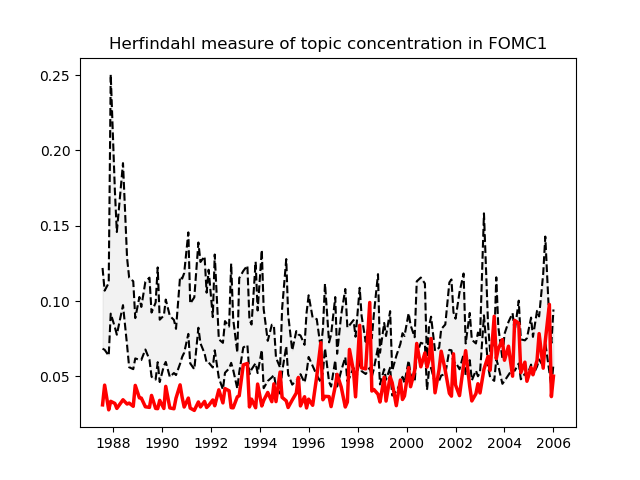
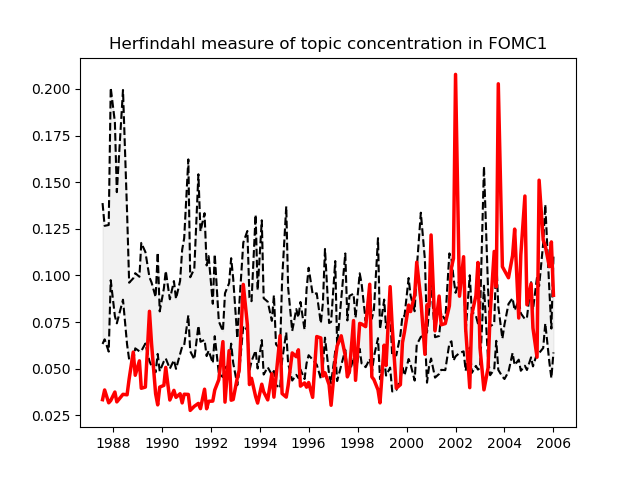
alpha to use: 2 to 2.5

diff --git a/estimation.py b/estimation.py
@@ -10,7 +10,7 @@ import timeit
 
 topic_num = 40
 maxit = 1000
-draw_num = 120
+draw_num = 200
 eps = 1e-4
 
 def LDA_implementation(text, alpha=1.25, beta=0.025, burning=4000, sample_freq=50, sample_size=80, keep_num=5):
@@ -67,7 +67,8 @@ def band(P, k, eps, maxit, M, stem_num, cov_type='HAC', maxlags=4):
                           columns=['Transparency', 'Recession', 'EPU', 'Twoday', 'PhDs', 'num_stems', 'Intercept'])
     bse = pd.DataFrame(index=range(M),
                        columns=['Transparency', 'Recession', 'EPU', 'Twoday', 'PhDs', 'num_stems', 'Intercept'])
-
+    tstat = pd.DataFrame(index=range(M),
+                       columns=['Transparency', 'Recession', 'EPU', 'Twoday', 'PhDs', 'num_stems', 'Intercept'])
     for m in range(M):
         start = timeit.default_timer()
         B, Theta = NNF(P, k, eps, maxit)
@@ -78,9 +79,10 @@ def band(P, k, eps, maxit, M, stem_num, cov_type='HAC', maxlags=4):
 
         params.loc[m] = model.get_robustcov_results(cov_type=cov_type, maxlags=maxlags).params
         bse.loc[m] = model.get_robustcov_results(cov_type=cov_type, maxlags=maxlags).bse
+        tstat.loc[m] = params.loc[m] / bse.loc[m]
         end = timeit.default_timer()
         print('Finished Trial number {}. Time: {}'.format(str(m), end-start))
-    return record, params, bse
+    return record, params, bse, tstat
 
 
 def plot_region(Herfindahl, HHI, index, section, dpi=100):
@@ -129,8 +131,8 @@ def main():
     #print('Finished')
 
     print('Running Variation Bayes LDA')
-    HHI_FOMC1, _, _ = vb_estimate('FOMC1',onlyTF=True, K=topic_num, alpha=1.25, eta=0.025)
-    HHI_FOMC2, _, _ = vb_estimate('FOMC2', onlyTF=True, K=topic_num, alpha=1.25, eta=0.025)
+    HHI_FOMC1, _, _,_ = vb_estimate('FOMC1',onlyTF=True, K=topic_num, alpha=1, eta=0.025)
+    HHI_FOMC2, _, _,_ = vb_estimate('FOMC2', onlyTF=True, K=topic_num, alpha=0.75, eta=0.025)
 
     td_matrix1 = td_matrix1_raw / td_matrix1_raw.sum(axis=0)
     td_matrix2 = td_matrix2_raw / td_matrix2_raw.sum(axis=0)
@@ -143,8 +145,8 @@ def main():
 
     # estimate the band of LDA result
     print('Running Robust LDA Algo')
-    Herfindahl1, params1, bse1 = band(td_matrix1, topic_num, eps, maxit, draw_num, stem_num1)
-    Herfindahl2, params2, bse2 = band(td_matrix2, topic_num, eps, maxit, draw_num, stem_num2)
+    Herfindahl1, params1, bse1, tstat1 = band(td_matrix1, topic_num, eps, maxit, draw_num, stem_num1)
+    Herfindahl2, params2, bse2, tstat2 = band(td_matrix2, topic_num, eps, maxit, draw_num, stem_num2)
     print('Finished')
 
     index = pd.to_datetime(pd.read_excel(os.path.join(UTILFILE_PATH,'separation_rules.xlsx')).iloc[:, 0], format='%Y%m')
@@ -158,6 +160,8 @@ def main():
     bse1.to_excel('FOMC1_bse.xlsx')
     params2.to_excel('FOMC2_coef.xlsx')
     bse2.to_excel('FOMC2_bse.xlsx')
+    tstat1.to_excel('FOMC1_tstat.xlsx')
+    tstat2.to_excel('FOMC2_tstat.xlsx')
 
     model_FOMC1 = regression_single(HHI_FOMC1, stem_num1)
     model_FOMC2 = regression_single(HHI_FOMC2, stem_num2)
@@ -165,14 +169,18 @@ def main():
     summary1 = pd.DataFrame(index = model_FOMC1.params.index)
     summary1['Coef'] = model_FOMC1.params
     summary1['Std Error'] = model_FOMC1.bse
-    summary1['Min'] = params1.min(axis = 0)
-    summary1['Max'] = params1.max(axis = 0)
+    summary1['Coef Min'] = params1.min(axis = 0)
+    summary1['Coef Max'] = params1.max(axis = 0)
+    summary1['Tstat Min'] = tstat1.min(axis = 0)
+    summary1['Tstat Max'] = tstat1.max(axis = 0)
 
     summary2 = pd.DataFrame(index=model_FOMC2.params.index)
     summary2['Coef'] = model_FOMC2.params
     summary2['Std Error'] = model_FOMC2.bse
     summary2['Min'] = params2.min(axis=0)
     summary2['Max'] = params2.max(axis=0)
+    summary2['Tstat Min'] = tstat2.min(axis = 0)
+    summary2['Tstat Max'] = tstat2.max(axis = 0)
 
     print('**************************************************************************************')
     print('Result for FOMC1')
@@ -181,5 +189,5 @@ def main():
     print('Result for FOMC2')
     print(summary2.round(4).T.to_latex())
 
-if __name__ == '__main__':
-    main()
+# if __name__ == '__main__':
+#     main()

diff --git a/estimation_on_posterior.py b/estimation_on_posterior.py
@@ -1,0 +1,64 @@
+from VB_estimate import vb_estimate
+from estimation import band
+import numpy as np
+import pandas as pd
+from timeit import default_timer
+from Constant import *
+import pickle
+
+maxit = 20
+topic_num = 40
+maxit_NMF = 1000
+draw_num = 120
+eps = 1e-6
+
+print('Reading cached data')
+with open(os.path.join(MATRIX_PATH, 'FOMC1_text_onlyTF.pkl'), 'rb') as f:
+    FOMC1_text = pickle.load(f)
+with open(os.path.join(MATRIX_PATH, 'FOMC2_text_onlyTF.pkl'), 'rb') as f:
+    FOMC2_text = pickle.load(f)
+td_matrix1_raw = pd.read_excel(os.path.join(MATRIX_PATH, 'FOMC1_meeting_matrix_onlyTF.xlsx'), index_col=0)
+td_matrix2_raw = pd.read_excel(os.path.join(MATRIX_PATH, 'FOMC2_meeting_matrix_onlyTF.xlsx'), index_col=0)
+stem_num1 = td_matrix1_raw.sum(axis=0)
+stem_num2 = td_matrix2_raw.sum(axis=0)
+
+VB_HHI_FOMC1_res = []
+VB_HHI_FOMC2_res = []
+NMF_HHI_FOMC1_max = []
+NMF_HHI_FOMC1_min = []
+NMF_HHI_FOMC2_max = []
+NMF_HHI_FOMC2_min = []
+
+
+for i in range(maxit):
+    print('Drawing posterior estimate number {}'.format(i))
+    start = default_timer()
+    HHI_FOMC1, _, gamma1, lam1 = vb_estimate('FOMC1',onlyTF=True, K=topic_num, alpha=2, eta=0.025, tau=100000, kappa=1)
+    HHI_FOMC2, _, gamma2, lam2 = vb_estimate('FOMC2', onlyTF=True, K=topic_num, alpha=2, eta=0.025, tau=100000, kappa=1)
+
+    # transpose lambda so that it is aligned to be V x K
+    #lam1 = lam1.T
+    lam1, lam2 = lam1.T, lam2.T
+    # compute posterior mean of each draw
+    theta1 = gamma1 / gamma1.sum(axis=0)
+    B1 = lam1 / lam1.sum(axis=0)
+    theta2 = gamma2 / gamma2.sum(axis=0)
+    B2 = lam2 / lam2.sum(axis=0)
+
+    # perform NMF on posterior
+    P_hat1 = np.dot(B1, theta1) #/ np.dot(B1, theta1).sum(axis=0)
+    P_hat2 = np.dot(B2, theta2) #/ np.dot(B2, theta2).sum(axis=0)
+
+    Herfindahl1, _, _, _ = band(P_hat1, topic_num, eps, maxit_NMF, draw_num, stem_num1)
+    Herfindahl2, _, _, _ = band(P_hat2, topic_num, eps, maxit_NMF, draw_num, stem_num2)
+
+    NMF_HHI_FOMC1_max.append(Herfindahl1.max(axis=0))
+    NMF_HHI_FOMC1_min.append(Herfindahl1.min(axis=0))
+    NMF_HHI_FOMC2_max.append(Herfindahl2.max(axis=0))
+    NMF_HHI_FOMC2_min.append(Herfindahl2.min(axis=0))
+    VB_HHI_FOMC1_res.append(HHI_FOMC1)
+    VB_HHI_FOMC2_res.append(HHI_FOMC2)
+    end = default_timer()
+    print('Finished draw {}. Time {}'.format(i, end-start))
+
+# todo: find a way to make VB result closer to the true data

diff --git a/VB_estimate.py b/VB_estimate.py
@@ -5,6 +5,7 @@ import pickle
 import onlineldavb
 
 def vb_estimate(section, onlyTF=True, K=40, alpha=0.025, eta=0.025, tau=1024, kappa=0.7):
+    print('VB Estimation for {}'.format(section))
     vocab_1 = pd.read_excel(os.path.join(MATRIX_PATH, section + '_dictionary_meeting{}.xlsx'.format('_onlyTF' if onlyTF else '')), index_col=0).index
     vocab_1 = list(vocab_1)
 
@@ -17,16 +18,16 @@ def vb_estimate(section, onlyTF=True, K=40, alpha=0.025, eta=0.025, tau=1024, ka
 
     # initialize online LDA algorithm
     olda = onlineldavb.OnlineLDA(vocab_1, K, D, alpha, eta, tau, kappa)
-
-    # since we have limited amount of text, to ensure convergence we pass in the same
-    # text for multiple batches
     (gamma, bound) = olda.update_lambda(text1)
 
     # posterior mean of theta is gamma_dk / sum_d gamma_dk
-    posterior_mean = gamma.T / gamma.sum(axis=1)
+    gamma = gamma.T
+    # Normalize gamma column-wise (sum across rows for each column)
+    posterior_mean = gamma / gamma.sum(axis=0)
     # compute herfindehl of the posterior mean
-    return (posterior_mean**2).sum(axis=0),posterior_mean, gamma
+    return (posterior_mean**2).sum(axis=0),posterior_mean, gamma, olda._lambda
 
 if __name__ == '__main__':
     vb_estimate('FOMC1')
+    vb_estimate('FOMC2')
 

diff --git a/onlineldavb.py b/onlineldavb.py
@@ -21,7 +21,7 @@ import numpy as np
 from scipy.special import gammaln, psi
 
 np.random.seed(100000001)
-meanchangethresh = 0.001
+meanchangethresh = 0.0001
 
 def dirichlet_expectation(alpha):
     """
